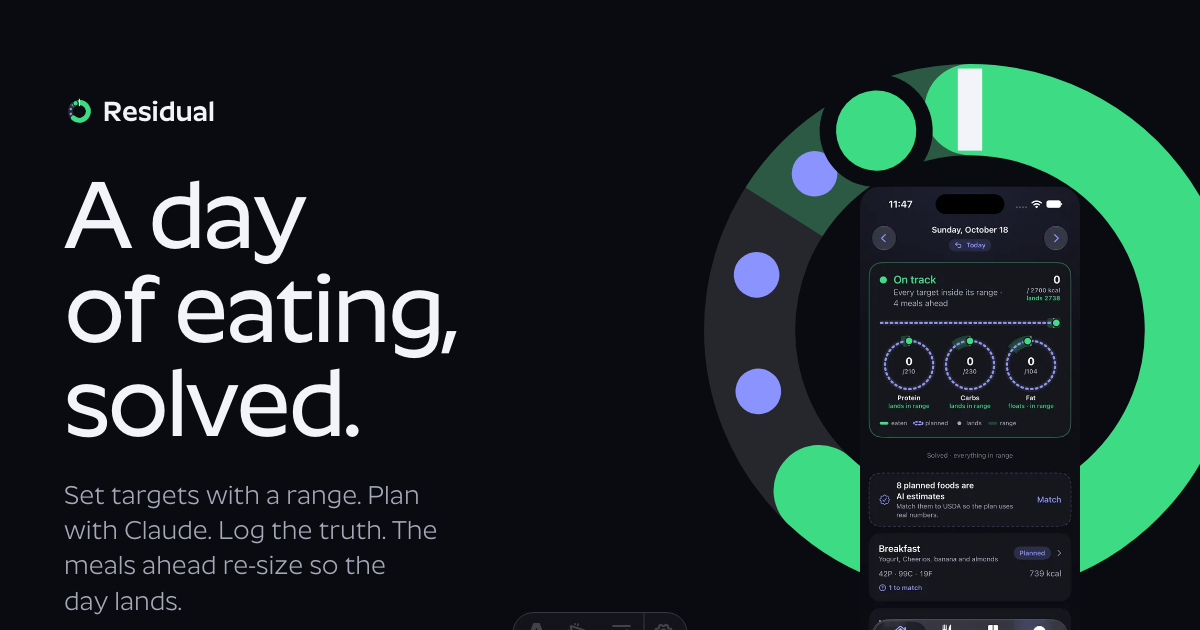
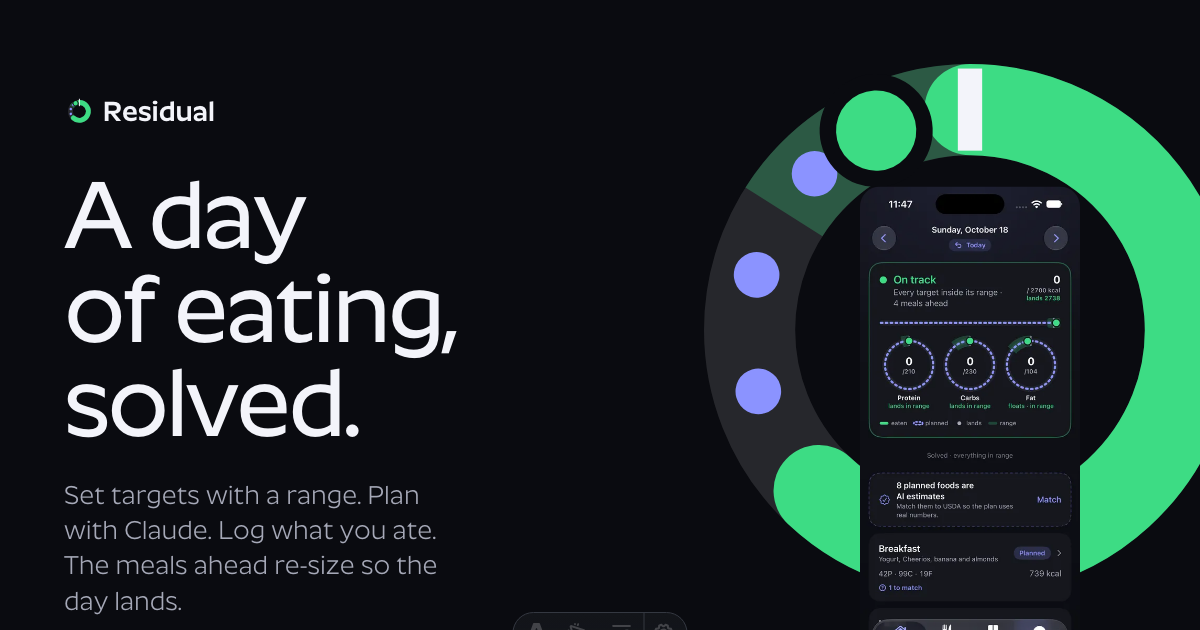
review pass: the ring draws itself in on load and on reveal like the app's rings; the hero fits a 1600px frame with a two-line headline and the whole Today screen; screenshots sized by height; promise close-ups show their whole labels; plainer captions and headings; a footer email sign-up on /api/su

Changed region(s): [[0.0308, 0.8143, 0.37, 0.9349]]

diff --git a/src/styles/global.css b/src/styles/global.css
@@ -35,6 +35,7 @@
   --ease-out: cubic-bezier(0.22, 1, 0.36, 1);
   --ease-in-out: cubic-bezier(0.76, 0, 0.24, 1);
   --ease-soft: cubic-bezier(0.33, 1, 0.68, 1);
+  --ease-snap: cubic-bezier(0.22, 1.25, 0.36, 1);   /* the app's .snappy: a touch of overshoot */
   --t-press: 140ms;
   --t-hover: 180ms;
   --t-ui: 240ms;
@@ -99,6 +100,27 @@ p + p { margin-top: 0.9em; }
 .js.settled [data-rise], .js.settled .lines [data-line] { opacity: 1; transform: none; animation: none; }
 @keyframes ad-rise { to { opacity: 1; transform: none; } }
 @keyframes ad-line { to { transform: none; } }
+
+/* The ring draws itself in the way the app's rings do: the eaten arc first, then the planned dots along
+   the arc, then the landing dot travels to where the day lands and the range fades in. `ring--animate`
+   plays on load; `ring--reveal` plays once an ancestor has `is-in`. The final state is also the no-motion state. */
+.ring__dot { transform-box: view-box; transform-origin: 50% 50%; transform: rotate(var(--to, 0deg)); }
+@media (prefers-reduced-motion: no-preference) {
+  .js .ring--animate .ring__eaten, .js .ring--reveal .ring__eaten { stroke-dasharray: 1; stroke-dashoffset: 1; }
+  .js .ring--animate .ring__planmask, .js .ring--reveal .ring__planmask { stroke-dasharray: 1; stroke-dashoffset: 1; }
+  .js .ring--animate .ring__dot, .js .ring--reveal .ring__dot { transform: rotate(var(--from, 0deg)); }
+  .js .ring--animate .ring__zone, .js .ring--reveal .ring__zone { opacity: 0; }
+  .js .ring--animate .ring__eaten, .js .is-in .ring--reveal .ring__eaten { animation: ring-draw 900ms var(--ease-out) 250ms forwards; }
+  .js .ring--animate .ring__planmask, .js .is-in .ring--reveal .ring__planmask { animation: ring-draw 800ms var(--ease-out) 1000ms forwards; }
+  .js .ring--animate .ring__dot, .js .is-in .ring--reveal .ring__dot { animation: ring-travel 900ms var(--ease-snap) 1050ms forwards; }
+  .js .ring--animate .ring__zone, .js .is-in .ring--reveal .ring__zone { animation: ring-fade 500ms ease 1500ms forwards; }
+  .js.settled .ring--animate .ring__eaten, .js.settled .ring--animate .ring__planmask { stroke-dashoffset: 0; animation: none; }
+  .js.settled .ring--animate .ring__dot { transform: rotate(var(--to, 0deg)); animation: none; }
+  .js.settled .ring--animate .ring__zone { opacity: 1; animation: none; }
+}
+@keyframes ring-draw { to { stroke-dashoffset: 0; } }
+@keyframes ring-travel { to { transform: rotate(var(--to, 0deg)); } }
+@keyframes ring-fade { to { opacity: 1; } }
 
 /* Plain documents: privacy, support. */
 .doc { padding-top: 8rem; padding-bottom: 6rem; max-width: 46rem; }
